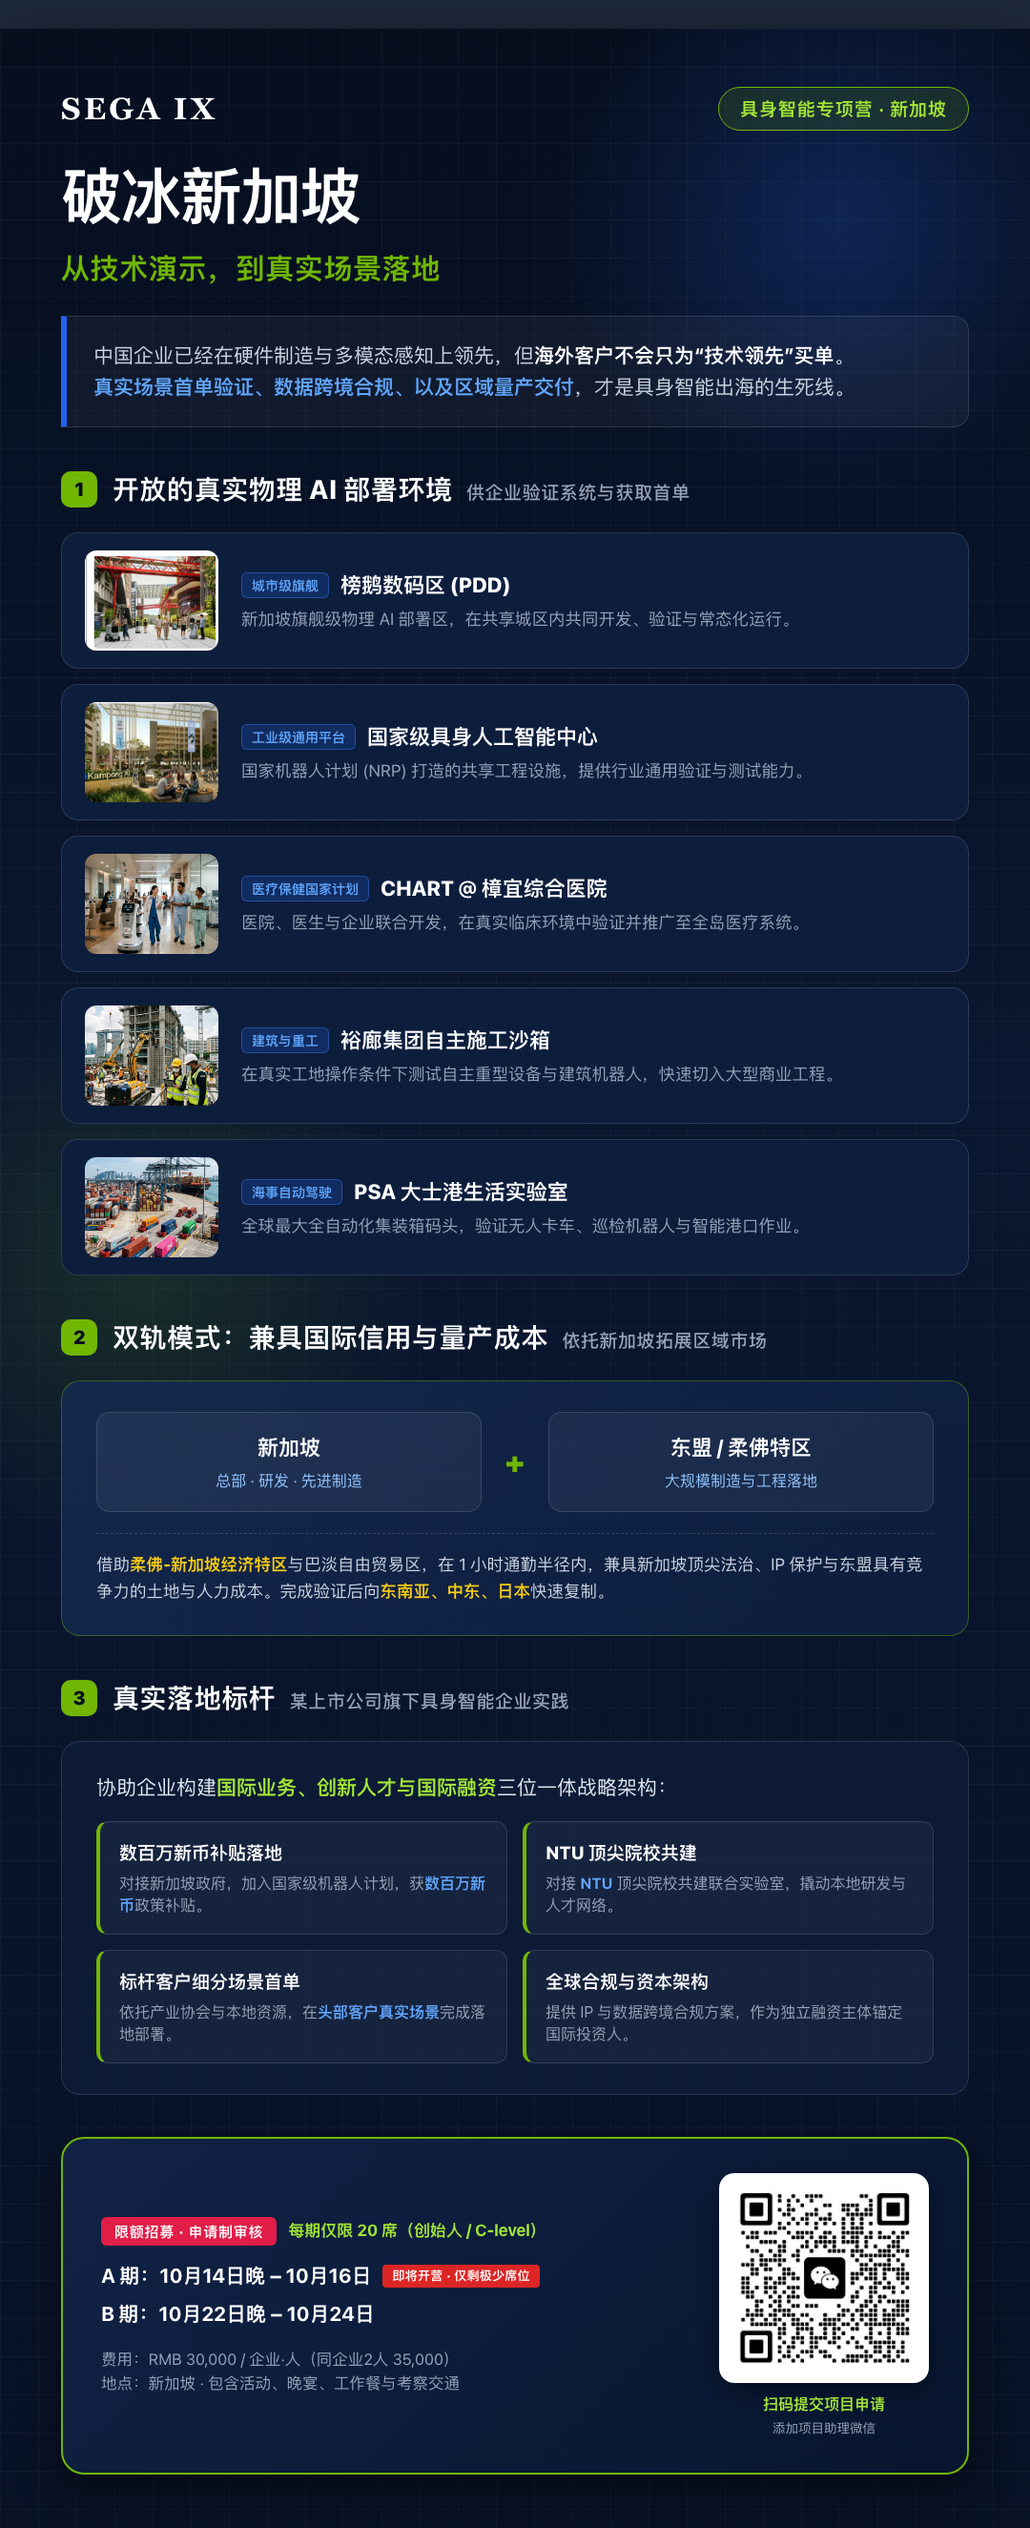
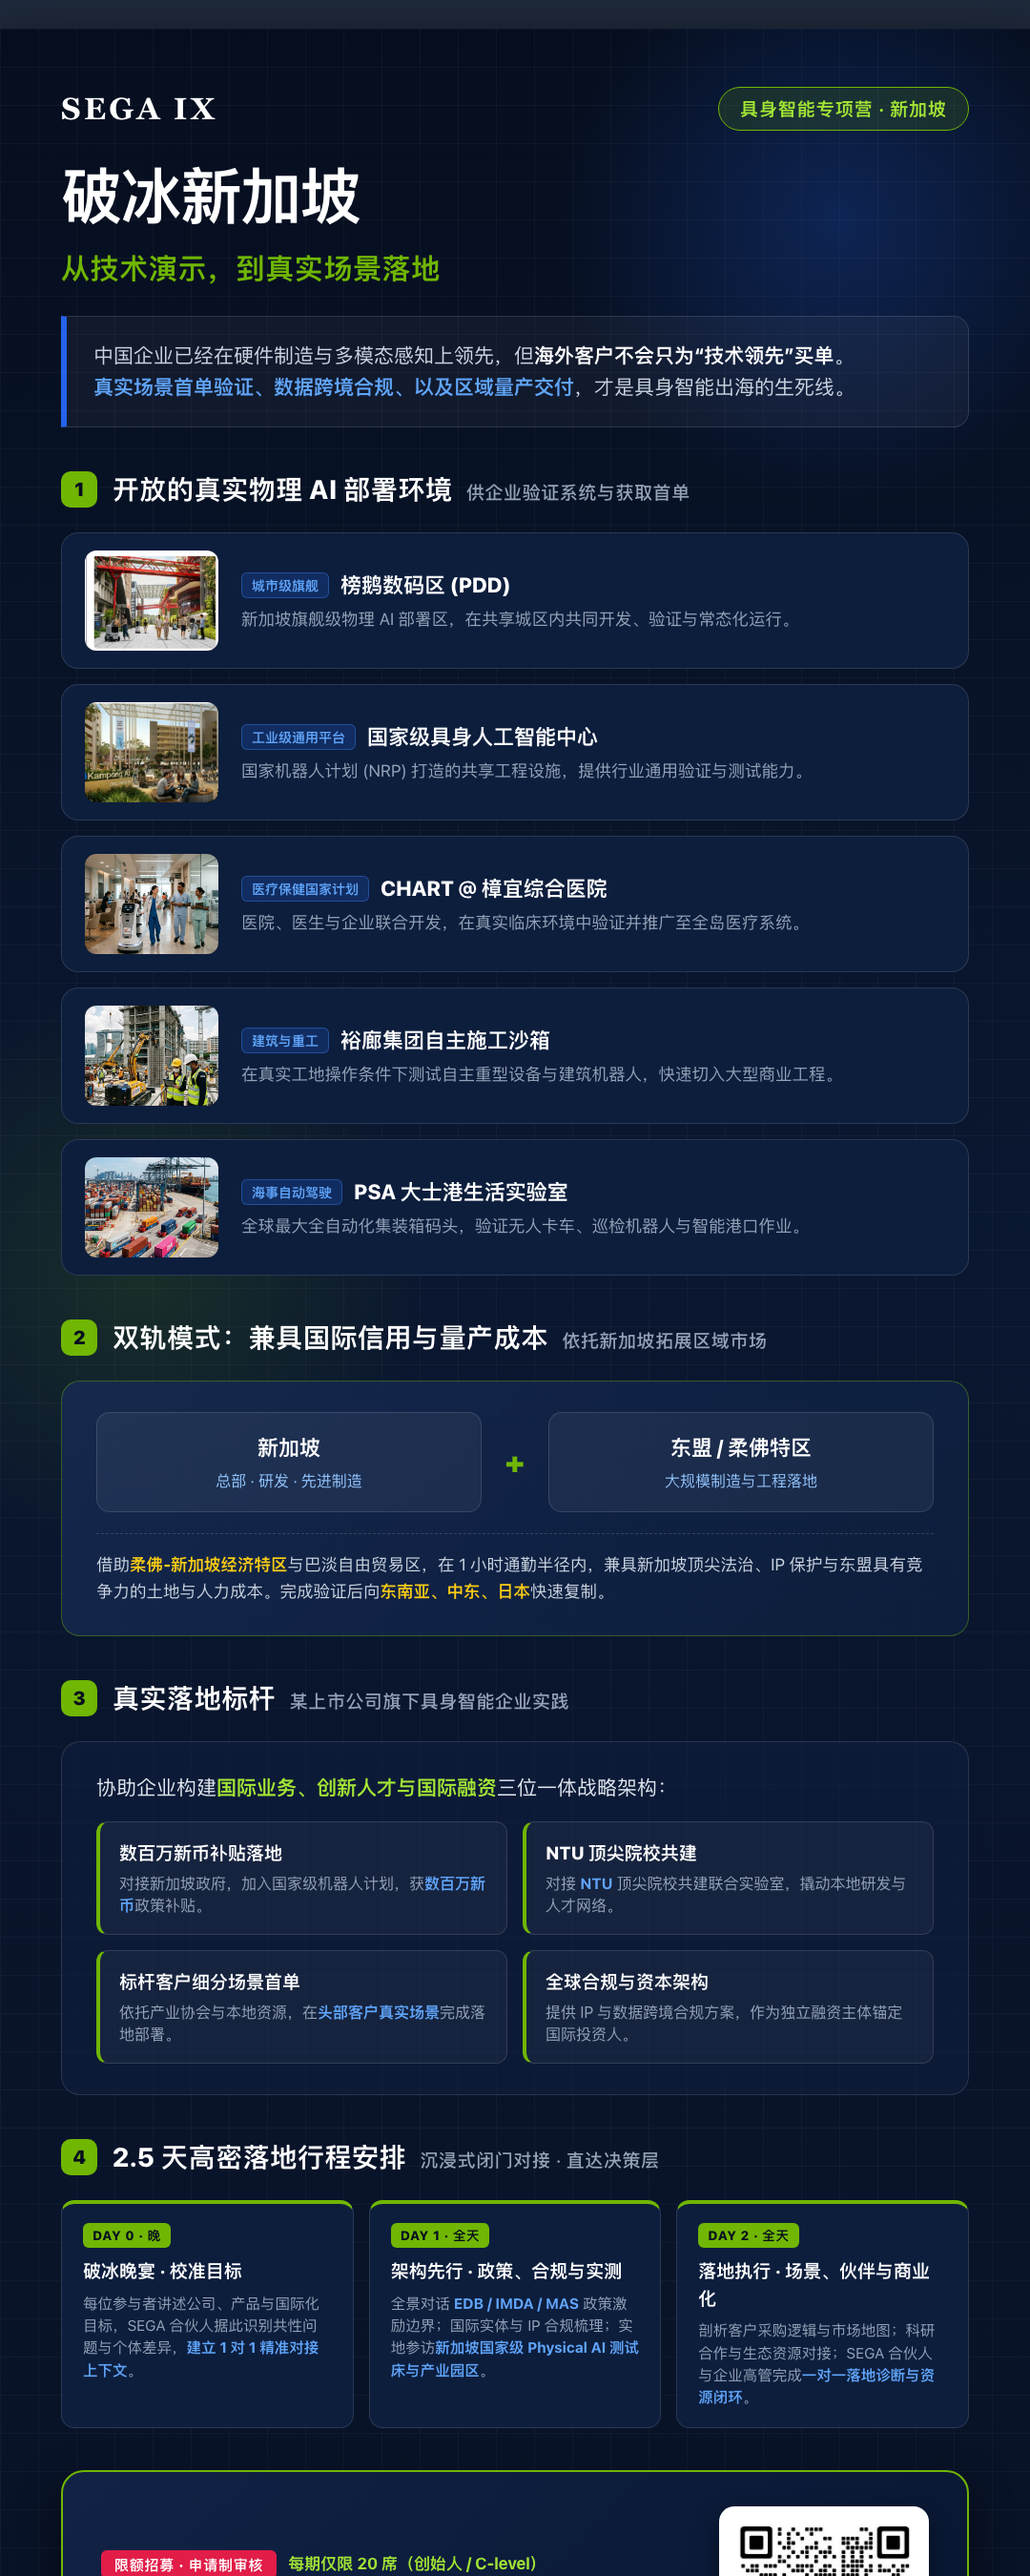
update: 优化海报底部二维码与Slogan并排，删除Time/Add，并在纪实长图中补全Day0-Day2行程

diff --git a/poster-scifi.html b/poster-scifi.html
@@ -26,13 +26,13 @@
     -webkit-font-smoothing: antialiased;
   }
 
-  /* 海报画布 (1080 宽度，高度自然紧凑贴合内容) */
+  /* 海报画布 */
   .poster {
     width: 1080px;
     background: radial-gradient(circle at 80% 15%, #0d286d 0%, #041033 40%, #020617 100%);
     position: relative;
     overflow: hidden;
-    padding-bottom: 30px;
+    padding-bottom: 35px;
   }
 
   /* 背景网格与光效层 */
@@ -409,7 +409,7 @@
     color: #94A3B8;
   }
 
-  /* 底部模块：极致紧凑自然衔接，杜绝多余空白 */
+  /* 底部模块：口号与二维码并排对齐，极简紧凑 */
   .bottom-section {
     position: relative;
     z-index: 3;
@@ -418,17 +418,25 @@
   }
   .bottom-arc-divider {
     width: 940px;
-    height: 44px;
+    height: 38px;
     display: block;
-    margin: 0 auto 10px;
+    margin: 0 auto 12px;
   }
 
-  /* 底部口号区域 */
+  /* 底部口号 + 右侧二维码 并排并列 */
+  .slogan-qr-row {
+    display: flex;
+    align-items: center;
+    justify-content: space-between;
+    gap: 20px;
+    padding-top: 14px;
+    border-top: 1px solid rgba(255, 255, 255, 0.15);
+  }
   .poster-slogan-block {
-    margin-bottom: 14px;
+    flex: 1;
   }
   .slogan-l1 {
-    font-size: 36px;
+    font-size: 34px;
     font-weight: 900;
     color: #FFFFFF;
     letter-spacing: 0.04em;
@@ -436,44 +444,13 @@
     text-shadow: 0 4px 16px rgba(0, 0, 0, 0.6);
   }
   .slogan-l2 {
-    font-size: 28px;
+    font-size: 26px;
     font-weight: 800;
     background: linear-gradient(90deg, #FFFFFF 0%, #38BDF8 60%, #00F2FE 100%);
     -webkit-background-clip: text;
     -webkit-text-fill-color: transparent;
     letter-spacing: 0.03em;
-    margin-top: 3px;
-  }
-
-  /* 底部时间、地点与二维码 */
-  .bottom-bar {
-    display: flex;
-    align-items: flex-end;
-    justify-content: space-between;
-    padding-top: 14px;
-    border-top: 1px solid rgba(255, 255, 255, 0.15);
-  }
-  .meta-group {
-    display: flex;
-    gap: 48px;
-  }
-  .meta-item {
-    display: flex;
-    flex-direction: column;
-  }
-  .meta-script-label {
-    font-family: 'Baskerville', 'Georgia', serif;
-    font-style: italic;
-    font-size: 24px;
-    font-weight: 700;
-    color: #38BDF8;
-    line-height: 1;
-    margin-bottom: 4px;
-  }
-  .meta-text {
-    font-size: 16.5px;
-    font-weight: 600;
-    color: #E2E8F0;
+    margin-top: 4px;
   }
 
   /* 二维码卡片 */
@@ -481,34 +458,39 @@
     display: flex;
     align-items: center;
     gap: 12px;
+    background: rgba(255, 255, 255, 0.04);
+    border: 1px solid rgba(0, 229, 255, 0.3);
+    padding: 10px 14px;
+    border-radius: 14px;
+    flex: none;
   }
   .qr-image-wrapper {
-    width: 88px;
-    height: 88px;
+    width: 82px;
+    height: 82px;
     background: #FFFFFF;
-    padding: 5px;
-    border-radius: 10px;
-    box-shadow: 0 0 20px rgba(0, 229, 255, 0.4);
+    padding: 4px;
+    border-radius: 8px;
+    box-shadow: 0 0 16px rgba(0, 229, 255, 0.4);
     flex: none;
   }
   .qr-image-wrapper img {
     width: 100%;
     height: 100%;
     display: block;
-    border-radius: 5px;
+    border-radius: 4px;
   }
   .qr-action-text {
     display: flex;
     flex-direction: column;
   }
   .qr-btn-text {
-    font-size: 16.5px;
+    font-size: 16px;
     font-weight: 800;
     color: var(--cyan-neon);
     letter-spacing: 0.02em;
   }
   .qr-hint-text {
-    font-size: 13px;
+    font-size: 12.5px;
     color: #94A3B8;
   }
 </style>
@@ -685,12 +667,12 @@
 
   </div>
 
-  <!-- 底部模块：自然紧凑衔接 -->
+  <!-- 底部模块：口号与二维码并列排版 -->
   <div class="bottom-section">
     <!-- 弧形发光分割线 -->
-    <svg class="bottom-arc-divider" viewBox="0 0 940 44" fill="none">
-      <path d="M0,36 Q470,-4 940,36" stroke="url(#arcGlow)" stroke-width="3.5" opacity="0.9"/>
-      <path d="M0,40 Q470,0 940,40" stroke="#00E5FF" stroke-width="1.2" opacity="0.5"/>
+    <svg class="bottom-arc-divider" viewBox="0 0 940 38" fill="none">
+      <path d="M0,32 Q470,-4 940,32" stroke="url(#arcGlow)" stroke-width="3.5" opacity="0.9"/>
+      <path d="M0,36 Q470,0 940,36" stroke="#00E5FF" stroke-width="1.2" opacity="0.5"/>
       <defs>
         <linearGradient id="arcGlow" x1="0%" y1="0%" x2="100%" y2="0%">
           <stop offset="0%" stop-color="#0051FF" stop-opacity="0.2"/>
@@ -700,26 +682,14 @@
       </defs>
     </svg>
 
-    <!-- 底部口号区域 -->
-    <div class="poster-slogan-block">
-      <div class="slogan-l1">场景定义智能，破冰走向全球</div>
-      <div class="slogan-l2">让中国具身智能，拿下海外真实商业化首单</div>
-    </div>
-
-    <!-- 底部时间、地点与二维码 -->
-    <div class="bottom-bar">
-      <div class="meta-group">
-        <div class="meta-item">
-          <span class="meta-script-label">Time</span>
-          <span class="meta-text">2024年10月中下旬（A期/B期）</span>
-        </div>
-        <div class="meta-item">
-          <span class="meta-script-label">Add</span>
-          <span class="meta-text">新加坡 · 全程闭门落地考察</span>
-        </div>
+    <!-- 底部口号与二维码并列 -->
+    <div class="slogan-qr-row">
+      <div class="poster-slogan-block">
+        <div class="slogan-l1">场景定义智能，破冰走向全球</div>
+        <div class="slogan-l2">让中国具身智能，拿下海外真实商业化首单</div>
       </div>
 
-      <!-- 右下角二维码 -->
+      <!-- 右侧二维码 -->
       <div class="qr-box-poster">
         <div class="qr-image-wrapper">
           <img src="assets/qr.png" alt="报名二维码">

diff --git a/poster-a.html b/poster-a.html
@@ -437,6 +437,46 @@
     position: relative;
     z-index: 2;
   }
+  /* 板块 4: 2.5天行程卡片 */
+  .agenda-a-grid {
+    display: grid;
+    grid-template-columns: repeat(3, 1fr);
+    gap: 16px;
+    position: relative;
+    z-index: 2;
+  }
+  .agenda-a-card {
+    background: var(--navy-card);
+    border: 1px solid var(--border-color);
+    border-top: 4px solid var(--neon-green);
+    border-radius: 14px;
+    padding: 20px 22px;
+  }
+  .agenda-a-badge {
+    font-size: 13.5px;
+    font-weight: 800;
+    color: #060E1E;
+    background: var(--neon-green);
+    padding: 3px 10px;
+    border-radius: 6px;
+    display: inline-block;
+    margin-bottom: 10px;
+    letter-spacing: 0.05em;
+  }
+  .agenda-a-card h4 {
+    font-size: 19px;
+    font-weight: 800;
+    color: #FFFFFF;
+    margin-bottom: 8px;
+  }
+  .agenda-a-card p {
+    font-size: 15.5px;
+    color: #94A3B8;
+    line-height: 1.5;
+  }
+  .agenda-a-card p b {
+    color: #60A5FA;
+  }
 </style>
 </head>
 <body>
@@ -588,7 +628,31 @@
       </div>
     </div>
 
-    <!-- 板块 4: 底部限额招募与 CTA -->
+    <!-- 板块 4: 2.5天高密落地行程安排 -->
+    <div class="section-title">
+      <div class="section-num">4</div>
+      <h3>2.5 天高密落地行程安排 <span>沉浸式闭门对接 · 直达决策层</span></h3>
+    </div>
+
+    <div class="agenda-a-grid">
+      <div class="agenda-a-card">
+        <span class="agenda-a-badge">DAY 0 · 晚</span>
+        <h4>破冰晚宴 · 校准目标</h4>
+        <p>每位参与者讲述公司、产品与国际化目标，SEGA 合伙人据此识别共性问题与个体差异，<b>建立 1 对 1 精准对接上下文</b>。</p>
+      </div>
+      <div class="agenda-a-card">
+        <span class="agenda-a-badge">DAY 1 · 全天</span>
+        <h4>架构先行 · 政策、合规与实测</h4>
+        <p>全景对话 <b>EDB / IMDA / MAS</b> 政策激励边界；国际实体与 IP 合规梳理；实地参访<b>新加坡国家级 Physical AI 测试床与产业园区</b>。</p>
+      </div>
+      <div class="agenda-a-card">
+        <span class="agenda-a-badge">DAY 2 · 全天</span>
+        <h4>落地执行 · 场景、伙伴与商业化</h4>
+        <p>剖析客户采购逻辑与市场地图；科研合作与生态资源对接；SEGA 合伙人与企业高管完成<b>一对一落地诊断与资源闭环</b>。</p>
+      </div>
+    </div>
+
+    <!-- 板块 5: 底部限额招募与 CTA -->
     <div class="bottom-cta-box">
       <div class="cta-info">
         <div class="cta-badge-row">
